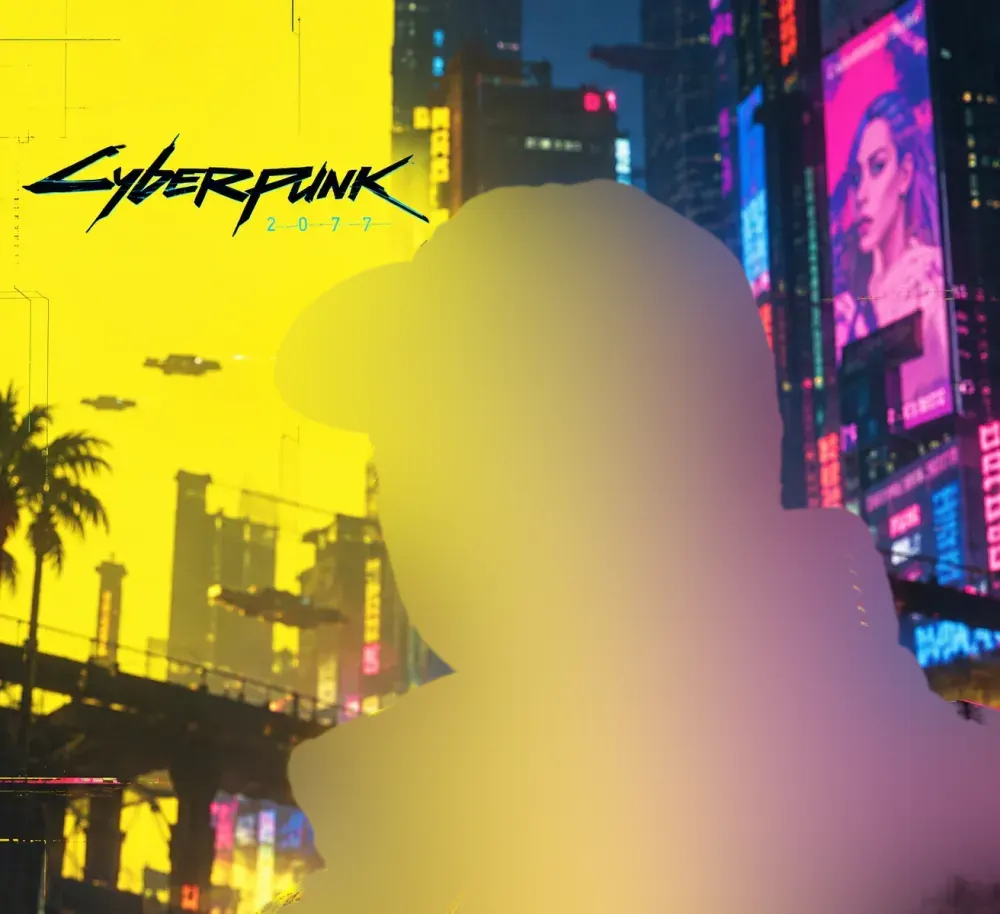
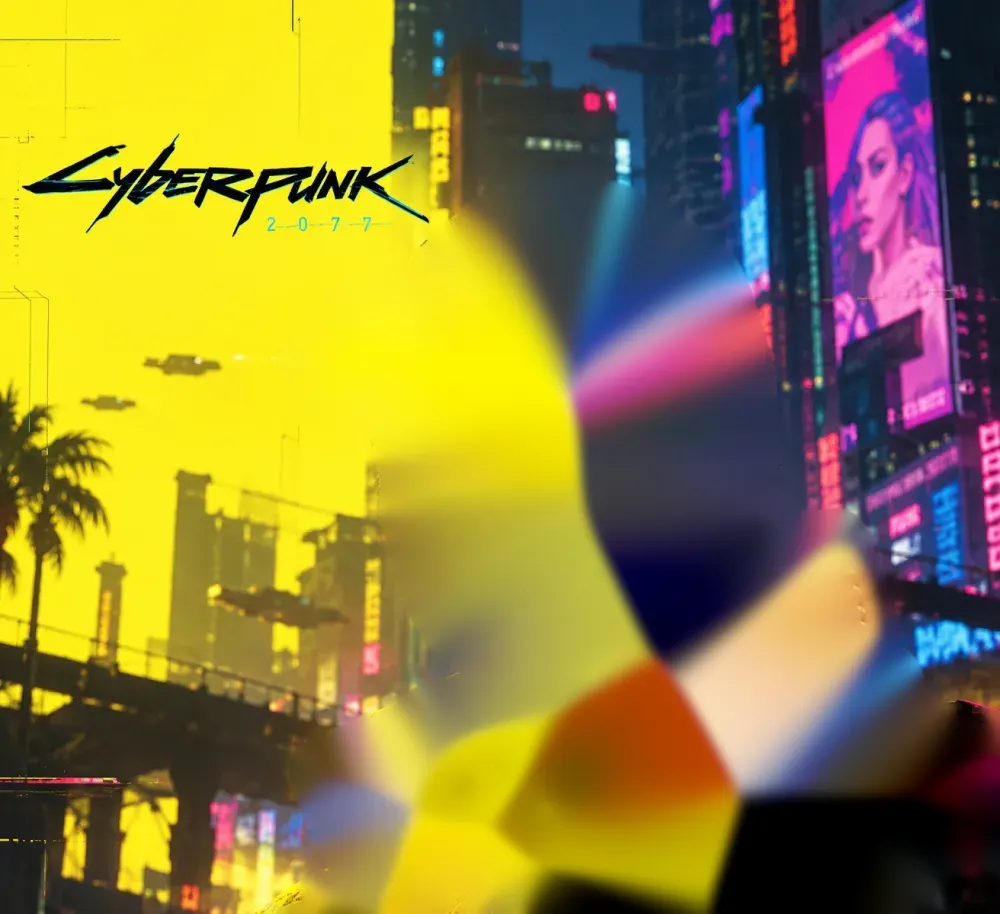
Close the gap behind the spatial portrait
Tilting revealed the filled area behind the cut-out as a grey haze. The
background plate now uses an edge-extension fill that grows the
neighbouring background inward (yellow sky on one side, city on the
other), and the plate-to-portrait shift drops from 19 to 13 viewBox
units while the frame and network move more, so depth still reads but
the revealed band is narrow and continuous at both tilt extremes.

diff --git a/src/styles/global.css b/src/styles/global.css
@@ -412,17 +412,17 @@ p {
   will-change: transform;
 }
 .parallax-bg {
-  transform: translate(calc(var(--tilt-x) * -14px), calc(var(--tilt-y) * -11px))
+  transform: translate(calc(var(--tilt-x) * -10px), calc(var(--tilt-y) * -8px))
     scale(1.05);
 }
 .parallax-frame {
-  transform: translate(calc(var(--tilt-x) * -7px), calc(var(--tilt-y) * -5px));
+  transform: translate(calc(var(--tilt-x) * -8px), calc(var(--tilt-y) * -6px));
 }
 .parallax-net {
-  transform: translate(calc(var(--tilt-x) * -4px), calc(var(--tilt-y) * -3px));
+  transform: translate(calc(var(--tilt-x) * -6px), calc(var(--tilt-y) * -5px));
 }
 .parallax-person {
-  transform: translate(calc(var(--tilt-x) * 5px), calc(var(--tilt-y) * 4px))
+  transform: translate(calc(var(--tilt-x) * 3px), calc(var(--tilt-y) * 2px))
     scale(1.05);
 }
 .spatial-toggle {
